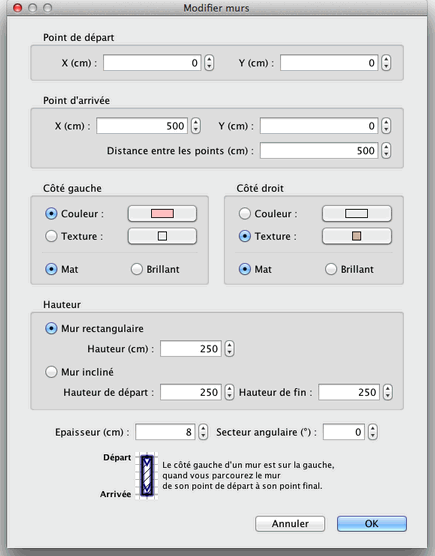
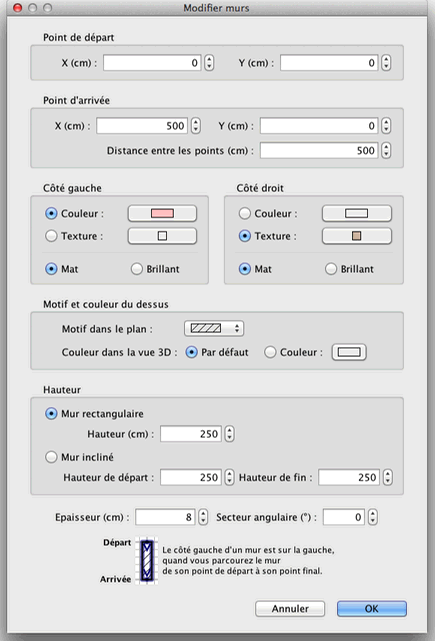
Updated help for version 4.0

diff --git a/trunk/SweetHome3D/src/com/eteks/sweethome3d/viewcontroller/resources/help/fr/editingPreferences.html b/trunk/SweetHome3D/src/com/eteks/sweethome3d/viewcontroller/resources/help/fr/editingPreferences.html
@@ -29,18 +29,22 @@
 	<td><p>Pour &eacute;diter les pr&eacute;f&eacute;rences de Sweet Home 3D, choisissez <i>Sweet Home 3D &gt; Pr&eacute;f&eacute;rences...</i> sous
 	    Mac OS X ou <i>Fichier &gt; Pr&eacute;f&eacute;rences...</i> sous les autres syst&egrave;mes d'exploitation.</p>
 	    <p align="center"><img src="images/editingPreferences.png"></p>
-	  <p>Dans le panneau des pr&eacute;f&eacute;rences, vous pouvez choisir la <i>Langue</i> utilis&eacute;e dans l'interface utilisateur
-	    de Sweet Home 3D et l'<i>Unit&eacute;</i> utilis&eacute;e
+	  <p>Dans le panneau des pr&eacute;f&eacute;rences,  la liste d&eacute;roulante <i>Langue</i> vous permet de choisir la langue utilis&eacute;e dans l'interface utilisateur
+	    de Sweet Home 3D et le bouton &agrave; sa droite d'importer des fichiers de langues avec une extensions SH3L.<br>
+	    La liste d&eacute;roulante <i>Unit&eacute;</i> vous permet de choisir l'unit&eacute; utilis&eacute;e
 	    pour dessiner les r&egrave;gles et la grille du plan du
-	    logement, et pour afficher les longueurs. <br>
-	    Le bouton &agrave; c&ocirc;t&eacute; de la liste d&eacute;roulante <i>Langue</i> vous permet aussi d'importer des fichiers de langues avec une extensions SH3L. </p>
+	    logement, ainsi que pour afficher les longueurs et les aires.	Pour le syst&egrave;me m&eacute;trique, vous pouvez choisir le <i>Millim&egrave;tre</i>, le <i>Centim&egrave;tre</i> ou le  <i>M&egrave;tre</i>, et le syst&egrave;me imp&eacute;rial propose les deux unit&eacute;s suivantes&nbsp;: l'unit&eacute; <i>Pied/Pouce/Fraction</i> 
+	    qui affiche une longueur en pieds et pouces suivie de la fraction d'un huiti&egrave;me de pouce la plus proche, comme dans 
+	    <b>20'10&#8539;&quot;</b>, et l'unit&eacute; <i>Pouce/D&eacute;cimales</i> qui affiche une longueur seulement en pouces suivie des d&eacute;cimales de pouce, comme dans <b>250.122&quot;</b>. Pour les aires, l'unit&eacute; <i>Pied/Pouce/Fraction</i> affiche toujours la valeur la plus proche en pieds carr&eacute;, tandis que l'unit&eacute; <i>Pouce/D&eacute;cimales</i> affiche des d&eacute;cimales 
+	    si besoin.</p>
 	    <p> Les boutons radio <i>Dossiers de cat&eacute;gorie </i>et <i>Liste 
           avec recherche </i>permettent de choisir le mode d'affichage du catalogue 
-          de meubles dans chaque <a href="ui.html">fen&ecirc;tre Sweet Home 3D</a>.<br>
-          La bo&icirc;te &agrave; cocher <i>Fl&egrave;ches de navigation 3D</i> 
-          permet d'afficher ou non les boutons en forme de fl&egrave;ches d'aide 
-          &agrave; la <a href="editing3DView.html">navigation dans la vue 3D</a>.</p>
-        <p> La bo&icirc;te &agrave; cocher <i>Magn&eacute;tisme</i> active ou 
+          de meubles dans chaque <a href="ui.html">fen&ecirc;tre Sweet Home 3D</a>.        </p>
+	    <p>	      La bo&icirc;te &agrave; cocher <i>Fl&egrave;ches de navigation 3D</i> permet d'afficher ou non les boutons en forme de fl&egrave;ches d'aide 
+          &agrave; la <a href="editing3DView.html">navigation dans la vue 3D</a>.<br>
+          Quand elle est activ&eacute;e, l'option <i>Vue a&eacute;rienne centr&eacute;e sur la s&eacute;lection</i> centrera la vue a&eacute;rienne 3D sur les &eacute;l&eacute;ments s&eacute;lectionn&eacute;s dans le plan 2D. Si aucun &eacute;l&eacute;ment n'est s&eacute;lectionn&eacute; ou si cette option est d&eacute;sactiv&eacute;e, 
+          la vue a&eacute;rienne sera centr&eacute;e sur le mileu du logement, qui peut changer en fonction de son contenu.</p>
+	    <p>La bo&icirc;te &agrave; cocher <i>Magn&eacute;tisme</i> active ou 
           d&eacute;sactive le magn&eacute;tisme utilis&eacute; dans le plan du 
           logement au cours du positionnement des meubles, et du dessin des murs, des pi&egrave;ces et des cotes.<br>
           La bo&icirc;te &agrave; cocher <i>R&egrave;gles</i> permet de rendre 
@@ -56,11 +60,14 @@
           remplies dans le plan avec la couleur ou de la texture que vous avez 
           choisies pour leur plancher, ou en gris (en blanc &agrave; l'impression).<br>
           La liste d&eacute;roulante <i>Motif des murs dans le plan</i> permet 
-          de choisir le motif de remplissage des murs dans le plan.</p>
-	  <p>La valeur de l'<i>Epaisseur des nouveaux murs</i> d&eacute;termine l'&eacute;paisseur des murs qui seront cr&eacute;&eacute;s
+          de choisir le motif de remplissage des murs dans le plan.<br>
+          La valeur de l'<i>Epaisseur des nouveaux murs</i> d&eacute;termine l'&eacute;paisseur des murs qui seront cr&eacute;&eacute;s
 	        une fois que le panneau des pr&eacute;f&eacute;rences sera ferm&eacute;.<br>
           La valeur de la <i>Hauteur des nouveaux murs</i> d&eacute;termine la hauteur des futurs murs.<br>
-	        La valeur de l'<i>Epaisseur des nouveaux planchers</i> d&eacute;termine l'&eacute;paisseur des planchers des futurs niveaux.	  </p>
+          La valeur de l'<i>Epaisseur des nouveaux planchers</i> d&eacute;termine l'&eacute;paisseur des planchers des futurs niveaux.</p>
+<p>Si elle est s&eacute;lectionn&eacute;e, l'option <i>V&eacute;rifier les mises &agrave; jour au lancement du programme</i> v&eacute;rifiera si des mises &agrave; jours de Sweet Home 3D sont disponibles ou non &agrave; chaque fois que le programme est  lanc&eacute;, 
+  et affichera des informations sur celles-ci dans une bo&icirc;te de dialogue. Cette option v&eacute;rifie aussi la disponibilit&eacute; de mises &agrave; jours pour les biblioth&egrave;ques de meubles (fichiers SH3F), les biblioth&egrave;ques de textures (fichiers SH3T), les fichiers de langues (fichiers SH3L) et les plug-ins 
+  (fichiers SH3P) que vous avez install&eacute;s, en fonction de leur configuration. </p>	  
 	  <p>La valeur du champ associ&eacute; &agrave; la bo&icirc;te &agrave; 
           cocher <i>Enregistrer les donn&eacute;es de r&eacute;cup&eacute;ration</i> 
           d&eacute;termine le d&eacute;lai en minutes qui s'&eacute;coule entre 
@@ -82,7 +89,7 @@
           <td><img src="../images/coloredRendering.png" width="332" height="296"></td>
         </tr>
         <tr>
-          <td align="center" valign="top">Rendu du plan par d&eacute;faut avec les ic&ocirc;nes du catalogue,<br>
+          <td align="center" valign="top">Rendu du plan avec les ic&ocirc;nes du catalogue,<br>
       les planchers monochromes et les murs hachur&eacute;s</td>
           <td align="center" valign="top">Rendu du plan avec les meubles vus de dessus,<br>
       les planchers color&eacute;s, et les murs en noir</td>
@@ -140,6 +147,12 @@
               <td><p>Une fois qu'un mur est cr&eacute;&eacute;, vous pouvez <a href="editingWalls.html">changer</a> 
                   son &eacute;paisseur et sa hauteur, quelque soit les valeurs 
                   choisies dans le panneau des pr&eacute;f&eacute;rences.</p></td>
+            </tr>
+            <tr valign="top"> 
+              <td width="16"><p>&#149;</p></td>
+              <td><p>Les  informations sur les mises &agrave; jour ne peuvent &ecirc;tre obtenues que si votre ordinateur a acc&egrave;s &agrave; Internet. 
+              En cas de doute, cliquez sur le bouton <i>V&eacute;rifier maintenant</i> pour afficher les mises &agrave; jour disponibles, 
+              ou un message sp&eacute;cifiant qu'aucune mise &agrave; jour n'est disponible, ou un message d'erreur stipulant que les mises &agrave; jour n'ont pu &ecirc;tre lues.</p></td>
             </tr>
           </table></td>
 	</tr>

diff --git a/trunk/SweetHome3D/src/com/eteks/sweethome3d/viewcontroller/resources/help/en/editingPreferences.html b/trunk/SweetHome3D/src/com/eteks/sweethome3d/viewcontroller/resources/help/en/editingPreferences.html
@@ -29,15 +29,25 @@
 	<td><p>To edit Sweet Home 3D preferences, choose <i>Sweet Home 3D &gt; Preferences...</i> under Mac OS X or <i>File &gt; Preferences...</i> under
 	    other systems.</p>
 	    <p align="center"><img src="images/editingPreferences.png"></p>
-	  <p>In the preferences pane, you can choose the <i>Language</i> used in Sweet Home 3D user interface and the <i>Unit</i> used
-	    to draw  the rulers and grid of the home plan, and to display lengths and areas.<br>
-	    The button beside the <i>Language</i> drop down list lets you also import some additional languages library files with a SH3L extension. </p>
-	    <p> The <i>Category folders</i> and the <i>Searchable list</i> radio buttons 
+	  <p>In the preferences pane, the <i>Language</i> drop down list lets you choose the language used in the user interface of Sweet Home 3D,  
+	  	and the button at its right lets you import some additional languages library files with a SH3L extension. <br>
+	    The <i>Unit</i> drop down list lets you choose the unit used to draw  the rulers and grid of the home plan, 
+	    and to display lengths and areas. <i>Millimeter</i>, <i>Centimeter</i> and <i>Meter</i> units are available 
+	    for the metric system, and two units are proposed for  the imperial system&nbsp;: the <i>Foot/Inch/Fraction</i> 
+	    unit which displays a length in feet and inches followed by the closest eighth inch fraction, like in 
+	    <b>20'10&#8539;&quot;</b>, and the <i>Inch/Decimals</i> unit  which displays lengths only in inches followed 
+	    by decimals of an inch, like in <b>250.122&quot;</b>. For areas, the <i>Foot/Inch/Fraction</i>  always 
+	    displays the closest value in square feet, whereas the <i>Inch/Decimals</i> unit displays some decimals 
+	    when necessary.</p>
+	  <p> The <i>Category folders</i> and the <i>Searchable list</i> radio buttons 
           let you choose how the furniture catalog should be displayed in each 
-          <a href="ui.html">Sweet Home 3D window</a>.<br>
-          The <i>3D navigation arrows</i> check box allows to display arrow buttons 
+        <a href="ui.html">Sweet Home 3D window</a>.</p>
+	  <p>The <i>3D navigation arrows</i> check box allows to display arrow buttons 
           that will help you to <a href="editing3DView.html">navigate in the 3D 
-        view</a>.</p>
+        view</a>.<br>
+        When enabled, the  <i>Aerial view centered on selection</i> option will center the 3D aerial view 
+        on the selected items in the 2D plan. If no item is selected or if this option is disabled, 
+        the aerial view will be centered on the center of the home, that may vary according to the items it contains. </p>
         <p> The <i>Magnetism</i> check box enables or disables the magnetism used 
           in the home plan during <a href="drawingWalls.html">walls drawing</a> 
           and <a href="editingFurniture.html">furniture placing</a>.<br>
@@ -51,13 +61,18 @@
           let you choose whether rooms should be drawn in plan filled with the 
           color or texture you chose for their floor, or with a grey color (printed 
           as white).<br>
-          The <i>Wall pattern in plan</i> combo box lets you choose the pattern 
-          used to fill walls in plan.</p>
-        <p>	      The <i>New walls thickness</i> value sets the thickness of all the walls that will be created once the preferences
+          The <i>New walls pattern in plan</i> drop down list lets you choose the pattern 
+        in the plan used to fill the walls  that will be created once the preferences
 	        pane will be closed.<br>
+          The <i>New walls thickness</i> value sets the thickness of the new walls.<br>
           The <i>New  walls height</i> value 
 	        sets the height of the new walls and of the new levels. <br>
-        The <i>New floors thickness</i> sets the thickness of the floors of new levels. </p>	  
+        The <i>New levels floor thickness</i> sets the thickness of the floors of new levels. </p>
+        <p>When selected, the  <i>Check updates at program launch</i> option will check whether 
+        some updates of Sweet Home 3D are available or not each time the program is launched, 
+        and will display them in a dialog box. This option checks also the availability of some updates for the furniture libraries 
+        (SH3F files),  textures libraries (SH3T files),  language libraries (SH3L files) and plug-ins 
+        (SH3P files) that you installed, depending on how they are configured. </p>	  
         <p>The value of the field associated to the <i>Save home data for recovery</i> 
           check box sets the delay in minutes between two save operations of the 
           opened homes. These homes are automatically saved in private files, 
@@ -75,7 +90,7 @@
           <td><img src="../images/coloredRendering.png" width="332" height="296"></td>
         </tr>
         <tr>
-          <td align="center" valign="top">Default plan rendering with catalog icons,<br>
+          <td align="center" valign="top">Plan rendering with catalog icons,<br>
             monochrome floors and walls filled with a hatch pattern</td>
           <td align="center" valign="top">Plan rendering with top view furniture icons,<br>
             floor colors, and walls filled with black color</td>
@@ -121,11 +136,17 @@
               <td><p>Magnetism set in preferences pane can be temporarily toggled 
               in the home plan, by pressing the <i>Alt</i> key under Windows, the <i>cmd</i> key under Mac OS X or the <i>Shift</i> +<i> Alt</i> keys under Linux.</p></td>
             </tr>
-            <tr valign="top"> 
+            <tr valign="top">
               <td width="16"><p>&#149;</p></td>
               <td><p>Once a wall is created, you may <a href="editingWalls.html">change</a> 
                   its thickness and its height whatever the values you set in 
                   preferences pane.</p></td>
+            </tr>
+            <tr valign="top"> 
+              <td width="16"><p>&#149;</p></td>
+              <td><p>Updates information can be retrieved only if your computer has access to the Internet. 
+              In case of doubts, click on the <i>Check now</i> button to display available updates, 
+              or a message stating that no update is available, or an error message stating udaptes couldn't be read.</p></td>
             </tr>
           </table>
 	</td>

diff --git a/trunk/SweetHome3D/src/com/eteks/sweethome3d/viewcontroller/resources/help/fr/creatingPhotos.html b/trunk/SweetHome3D/src/com/eteks/sweethome3d/viewcontroller/resources/help/fr/creatingPhotos.html
@@ -110,8 +110,8 @@
           par le panneau de la <a href="editingCompass.html">boussole</a>. La 
           luminosit&eacute; globale de l'image d&eacute;pend aussi du niveau de 
           l'intensit&eacute; lumineuse choisie dans le panneau de <a href="editing3DView.html">modification 
-          de la vue 3D</a>.</p>
-        <p>Pour terminer, le panneau <i>Cr&eacute;er une photo</i> vous permet 
+          de la vue 3D</a>.<br>
+          Pour terminer, le panneau <i>Cr&eacute;er une photo</i> vous permet 
           de s&eacute;lectionner l'objectif &agrave; utiliser parmi les 4 suivants.</p>
         <table border="0" align="center" cellpadding="0" cellspacing="5">
           <tr align="center"> 
@@ -134,7 +134,8 @@
             <td align="center" valign="top">Objectif <i>Sph&eacute;rique</i></td>
           </tr>
         </table>
-       
+       	<p>Si vous voulez calculer un ensemble de photos en une seule t&acirc;che, enregistrez les points de vue auxquels vous vous int&eacute;ressez avec le menu <i>Vue 3D view &gt; Enregistrer le point de vue...</i> puis choisissez le menu <i>Vue 3D &gt; Cr&eacute;er des photos aux points de vue...</i>. Ce menu affichera une bo&icirc;te de dialogue vous permettant de choisir la taille, la qualit&eacute; et le fomat de fichier des photos, avant de les calculer et les enregistrer dans le dossier de votre choix.  Aux deux meilleurs niveaux de qualit&eacute;, la date/heure et l'objectif utilis&eacute;s &agrave; un point de vue donn&eacute; seront les valeurs que vous avez saisies pr&eacute;c&eacute;demment dans le panneau de cr&eacute;ation de photo, au moment de l'enregistrement de ce point de vue.</p>
+        <p align="center"><img src="images/creatingPhotosAtPointsOfView.png" alt="Create photos at points of view"></p>
         </td>
 	</tr>
 </table>
@@ -209,11 +210,11 @@
             </tr>
             <tr valign="top"> 
               <td><p>&#149;</p></td>
-              <td> <p>La bo&icirc;te de dialogue <i>Cr&eacute;er une photo</i> 
-                  n'est pas modale. Ceci implique qu'elle ne bloque pas les saisies 
+              <td> <p>Les bo&icirc;tes de dialogue <i>Cr&eacute;er une photo</i> 
+                  et <i>Cr&eacute;er des photos aux points de vue</i> ne sont pas modales. Ceci implique qu'ellent ne bloquent pas les saisies 
                   dans d'autres fen&ecirc;tres, ce qui vous permet de modifier 
                   votre logement ou votre point de vue dans la fen&ecirc;tre principale, 
-                  quand cette bo&icirc;te de dialogue est ouverte. </p></td>
+                  quand l'une de ces bo&icirc;tes de dialogue est ouverte. </p></td>
             </tr>
             <tr valign="top"> 
               <td width="16"><p>&#149;</p></td>

diff --git a/trunk/SweetHome3D/src/com/eteks/sweethome3d/viewcontroller/resources/help/en/creatingPhotos.html b/trunk/SweetHome3D/src/com/eteks/sweethome3d/viewcontroller/resources/help/en/creatingPhotos.html
@@ -97,8 +97,8 @@
           the latter parameters being managed by the <a href="editingCompass.html">compass</a> 
           pane. The global brightness of the image depends also on the level of 
           the light brightness set in the <a href="editing3DView.html">3D view 
-          modification</a> pane.</p>
-        <p>Finally, the <i>Create photo</i> pane lets you choose also among the 
+          modification</a> pane.<br>
+          Finally, the <i>Create photo</i> pane lets you choose also among the 
           4 different following types of lens.</p>
         <table border="0" align="center" cellpadding="0" cellspacing="5">
           <tr align="center"> 
@@ -121,8 +121,9 @@
             <td align="center" valign="top"><i>Spherical</i> lens</td>
           </tr>
         </table>
-       
-        </td>
+        <p>If you want to  compute a group of photos in the same batch, store the points of view you're interested in with the  <i>3D view &gt; Store point 
+        of view...</i> menu item then select the <i>3D view &gt; Create photos at point of view...</i> menu item. It will display a dialog box that will let you choose the size, the image quality and the file format of the computed images, before computing and saving them in the folder of your choice.  At the two best quality levels, the date/time and lens used for a given rendered point of view will be the values you previously entered in the <i>Create photo</i> pane, at the moment you stored that point of view.</p>
+        <p align="center"><img src="images/creatingPhotosAtPointsOfView.png" alt="Create photos at points of view"></p></td>
 	</tr>
 </table>
 <div id="taskbox">
@@ -187,10 +188,10 @@
             </tr>
             <tr valign="top"> 
               <td><p>&#149;</p></td>
-              <td> <p>The <i>Create photo</i> dialog box isn't modal. This means 
+              <td> <p>The <i>Create photo</i> and <i>Create photos at point of view</i> dialog boxes aren't modal. This means 
                   that it doesn't block the input in other windows and lets you 
-                  modify your home or your point of view in the main window, while 
-                  this dialog box is opened. </p></td>
+                  modify your home or your point of view in the main window, while one of 
+                  these dialog boxes is opened. </p></td>
             </tr>
             <tr valign="top"> 
               <td width="16"><p>&#149;</p></td>

diff --git a/trunk/SweetHome3D/src/com/eteks/sweethome3d/viewcontroller/resources/help/en/editingWalls.html b/trunk/SweetHome3D/src/com/eteks/sweethome3d/viewcontroller/resources/help/en/editingWalls.html
@@ -86,7 +86,7 @@
         <p align="center"><img src="images/editingWalls.png"></p>
         <p>In the wall pane, you may change&nbsp;the coordinates of its start 
           and end points, the colors, the textures and the shininess of its left 
-          and right sides, its thickness, its height and its arc extent if it's 
+          and right sides, the pattern used to fill it in the plan, the color used to paint its top in the 3D view, its thickness, its height and its arc extent if it's 
           a round wall.<br>
           If it's a sloping wall of a garret, choose different heights at its start and  end points, and ensure
           yourself that the <i>Sloping wall</i> radio button is selected.<br>
@@ -105,7 +105,7 @@
               <p>&#149;</p>
             </td>
             <td>
-              <p>If you want to modify the colors, the texture, the thickness or the height of a set of walls, select these
+              <p>If you want to modify the colors, the textures, the thickness or the height of a set of walls, select these
                 walls and choose <i>Plan &gt; Modify walls...</i>.
                 The values of the attributes that are different from one wall to another in the selected walls set,
                 will appear  blank  in the walls pane. If   among these walls, a wall isn't correctly oriented, select
@@ -116,9 +116,12 @@
               <p>&#149;</p>
             </td>
             <td>
-              <p>If you want to set different colors on the side of a wall shared by adjacent rooms,   divide
+              <p>If you want to set different colors or textures on the side of a wall shared by adjacent rooms, divide
               it in multiple segments at its <a href="drawingWalls.html">creation</a>. Afterwards, you may also divide a
-              wall in two walls by choosing <i>Plan &gt; Split wall</i>.</td>
+              wall in two walls by choosing <i>Plan &gt; Split wall</i>. If you want to change the color of all the wall 
+              sides around a room, <a href="drawingRooms.html">draw that room</a> if necessary, and select the color of 
+              your choice in the <i>Wall sides around room</i> section of the <a href="editingRooms.html">modification</a> 
+              pane of that room.</td>
           </tr>
           <tr valign="top">
             <td>

diff --git a/trunk/SweetHome3D/src/com/eteks/sweethome3d/viewcontroller/resources/help/fr/editing3DView.html b/trunk/SweetHome3D/src/com/eteks/sweethome3d/viewcontroller/resources/help/fr/editing3DView.html
@@ -194,6 +194,12 @@
 	    </tr>
 	  <tr valign="top">
 	    <td><p>&#149;</p></td>
+	    <td><p>Dans le mode <i>Vue a&eacute;rienne</i>, l'observateur tourne autour du centre du logement dans la vue 3D, et ce centre est automatiquement mis	&agrave; jour chaque fois qu'un objet est d&eacute;plac&eacute; ou redimensionn&eacute;. Ce comportement vous assure de toujours voir votre logement enti&egrave;rement sans risque de vous perdre dans la vue 3D. Si vous voulez choisir un point de vue ind&eacute;pendant de ce mode centr&eacute;, vous pouvez activer l'option <i>Vue a&eacute;rienne centr&eacute;e sur la selection</i> dans le panneau des <a href="editingPreferences.html">pr&eacute;f&eacute;rences</a> pour centrer la vue a&eacute;rienne 3D 
+	    	sur les &eacute;l&eacute;ments s&eacute;lectionn&eacute;s dans le plan, ou  utiliser le mode <i>Visiteur virtuel</i> pour choisir n'importe quel point de vue. 
+	    	Si vous voulez voir des pi&egrave;ces cach&eacute;es par des murs, vous pouvez aussi modifier la transparence des murs dans le panneau de modification de la vue 3D.</p></td>
+	    </tr>
+	  <tr valign="top">
+	    <td><p>&#149;</p></td>
 	    <td><p>L'option <i>Ajuster la hauteur des yeux en fonction du niveau s&eacute;lectionn&eacute;</i> est s&eacute;lectionn&eacute;e par d&eacute;faut et disponible aussit&ocirc;t que le logement &eacute;dit&eacute; compte plus d'un <a href="addingLevels.html">niveau</a>. D&eacute;s&eacute;lectionnez-la  si vous pr&eacute;f&eacute;rez conserver la m&ecirc;me &eacute;l&eacute;vation quelque soit le niveau s&eacute;lectionn&eacute; (propablement pour un point de vue ext&eacute;rieur).</p></td>
 	    </tr>
 	  <tr valign="top">

diff --git a/trunk/SweetHome3D/src/com/eteks/sweethome3d/viewcontroller/resources/help/en/editingFurniture.html b/trunk/SweetHome3D/src/com/eteks/sweethome3d/viewcontroller/resources/help/en/editingFurniture.html
@@ -113,11 +113,20 @@
           the ordinate (Y) of its center, the elevation of its bottom from the 
           floor, its width, its depth, its height, its color or its texture, its 
           shininess, its visibility, its rotation angle, whether its name should 
-          be displayed in plan or not and whether its 3D model shape should be 
+          be displayed in plan or not, and whether its 3D model shape should be 
           mirrored.<br>
 	    If you make a piece invisible, it won't be drawn in the home plan
 	    and the 3D view, but it will
-	    still appear in the furniture list to let you make it visible again later.</p></td>
+	    still appear in the furniture list to let you make it visible again later.<br>
+	    When one piece is edited
+	    (or if the selected pieces are all the same), you may also click on the <i>Modify</i> button 
+	    shown beside <i>Materials</i> option, to  replace each color or texture of the piece by the 
+	    one of your choice. </p>
+	    <p align="center"><img src="images/editingMaterials.png" alt="Modify furniture"></p>
+	    <p>The <i>Furniture materials</i> pane displays the list of materials you can edit, and a 3D preview 
+	    of the color and texture changes you made, because materials may not always have  some clear or translated names 
+	    (like <i>bone2</i> instead of <i>mattress</i> or <i>flyellow</i> instead of <i>frame</i> in the previous figure). 
+      You can also  rotate the object in the 3D preview with the mouse if necessary.</p></td>
 	</tr>
 </table>
 <div id="taskbox">

diff --git a/trunk/SweetHome3D/src/com/eteks/sweethome3d/viewcontroller/resources/help/fr/editingFurniture.html b/trunk/SweetHome3D/src/com/eteks/sweethome3d/viewcontroller/resources/help/fr/editingFurniture.html
@@ -124,7 +124,13 @@ Les meubles modifi&eacute;s avec la souris sont dessin&eacute;s simultan&eacute;
           ou son miroir. <br>
 	     Si vous rendez un meuble invisible, il ne sera pas dessin&eacute; dans le plan du logement et dans
 	     la vue 3D, mais il continuera d'appara&icirc;tre dans
-	    la liste des meubles pour vous permettre de le rendre &agrave; nouveau visible ult&eacute;rieurement.</p></td>
+	    la liste des meubles pour vous permettre de le rendre &agrave; nouveau visible ult&eacute;rieurement.
+	    <br>
+	    Quand un meuble est &eacute;dit&eacute;
+	    (ou si les meubles s&eacute;lectionn&eacute;s sont tous les m&ecirc;mes), vous pouvez aussi cliquer sur le bouton <i>Modifier</i> en regard de l'option <i>Mat&eacute;riaux</i>, pour remplacer chaque couleur ou chaque texture du meuble par celle de votre choix. </p>
+	    <p align="center"><img src="images/editingMaterials.png" alt="Modify furniture"></p>
+	    <p>Le panneau <i>Mat&eacute;riaux du mobilier</i> affiche la liste des mat&eacute;riaux que vous pouvez modifier, ainsi qu'un aper&ccedil;u 3D des modifications de couleur et de texture en cours, les mat&eacute;riaux n'ayant pas toujours des noms clairs ou en fran&ccedil;ais (comme <i>bone2</i> &agrave; la place de <i>matelas</i> ou <i>flyellow</i>&agrave; la place de <i>cadre de lit </i> dans la figure pr&eacute;c&eacute;dente). 
+      Si besoin, vous pouvez aussi faire tourner l'objet dans l'aper&ccedil;u 3D &agrave; l'aide de  la souris.</p></td>
 	</tr>
 </table>
 <div id="taskbox">

diff --git a/trunk/SweetHome3D/src/com/eteks/sweethome3d/viewcontroller/resources/help/en/editing3DView.html b/trunk/SweetHome3D/src/com/eteks/sweethome3d/viewcontroller/resources/help/en/editing3DView.html
@@ -178,6 +178,15 @@
 	    </tr>
 	  <tr valign="top">
 	    <td><p>&#149;</p></td>
+	    <td><p>In <i>Aerial view</i> mode, the observer  turns around the center of the home in the 3D view and this center is automatically 
+	    	updated each time the objects are moved or resized. This behavior ensures you always see your home entirely with no way to get 
+	    	lost in the 3D view. If you want to use a point of view that won't depend on this centered mode, you may enable the 
+	    	<i>Aerial view centered on selection</i> option in the <a href="editingPreferences.html">preferences</a> pane to center the 3D 
+	    	aerial view on the selected items in the 2D plan, or  use the <i>Virtual visit</i> mode which lets you choose any point of view. 
+	    	If you want to see some rooms hidden by walls, you may also set the walls transparency in the modification pane of the 3D view.</p></td>
+	    </tr>
+	  <tr valign="top">
+	    <td><p>&#149;</p></td>
 	    <td><p>The  <i>Adjust eyes elevation according to the selected level</i>  option is selected by default and available only if the edited home has more than one <a href="addingLevels.html">level</a>. Unselect it if you want to keep the same elevation whatever level is selected (propably for an exterior point of view).</p></td>
 	    </tr>
 	  <tr valign="top">

diff --git a/trunk/SweetHome3D/src/com/eteks/sweethome3d/viewcontroller/resources/help/fr/editingRooms.html b/trunk/SweetHome3D/src/com/eteks/sweethome3d/viewcontroller/resources/help/fr/editingRooms.html
@@ -89,7 +89,15 @@
           Vous pouvez aussi choisir si le plancher et le plafond de la pi&egrave;ce 
           s&eacute;lectionn&eacute;e doivent &ecirc;tre affich&eacute;s dans la 
           vue 3D, et si oui, avec quelle couleur, quelle texture et &agrave; quelle 
-        brillance.</p>
+        brillance.<br>
+        Quand la pi&egrave;ce s&eacute;lectionn&eacute;e touche ou est tr&egrave;s proche d'un ou plusieurs murs, le panneau de la pi&egrave;ce affiche aussi une section <i>Murs autour de la pi&egrave;ce </i>qui vous permet de choisir la couleur ou la texture du c&ocirc;t&eacute; des murs qui se situent le long de la pi&egrave;ce ou sont dans la pi&egrave;ce. Si besoin, cette section propose une option <i>Recalculer les murs</i> qui si elle est s&eacute;lectionn&eacute;e, divisera automatiquement les murs qui s'&eacute;tendent le long des autres pi&egrave;ces environnantes.</p>
+        <table align="center"><tr>
+          <td><img src="../images/notRecomputedWallsAroundRoom.png" border="1" ></td>
+		  <td>&nbsp;</td>
+		  <td><img src="../images/recomputedWallsAroundRoom.png" border="1"></td></tr>
+	      <tr><td align="center"><i>Not recomputed walls</i></td>
+	      <td></td>
+	      <td align="center"><i>Recomputed walls</i></td></tr></table></td>
       </td>
   </tr>
 </table>

diff --git a/trunk/SweetHome3D/src/com/eteks/sweethome3d/viewcontroller/resources/help/fr/editingWalls.html b/trunk/SweetHome3D/src/com/eteks/sweethome3d/viewcontroller/resources/help/fr/editingWalls.html
@@ -121,11 +121,12 @@
               <p>&#149;</p>
             </td>
             <td>
-              <p>Si vous voulez positionner des couleurs diff&eacute;rentes sur le c&ocirc;t&eacute; d'un mur partag&eacute; par
+              <p>Si vous voulez choisir des couleurs ou des textures diff&eacute;rentes sur le c&ocirc;t&eacute; d'un mur partag&eacute; par
                 des pi&egrave;ces adjacentes,
                 divisez le en plusieurs segments
                 &agrave; sa <a href="drawingWalls.html">cr&eacute;ation</a>. Apr&egrave;s sa cr&eacute;ation, vous pouvez aussi le diviser
-                en deux murs en choisissant l'&eacute;l&eacute;ment de menu <i>Plan &gt; Diviser le mur</i>.</td>
+                en deux murs en choisissant l'&eacute;l&eacute;ment de menu <i>Plan &gt; Diviser le mur</i>. Si vous voulez modifier la couleur de tous les c&ocirc;t&eacute;s des murs situ&eacute;s autour d'une pi&egrave;ce, <a href="drawingRooms.html">dessinez cette pi&egrave;ce</a> si besoin, et s&eacute;lectionnez la couleur de votre choix dans la section <i>Murs autour de la pi&egrave;ce </i>du panneau de <a href="editingRooms.html">modification</a> 
+              de cette pi&egrave;ce.</p></td>
           </tr>
           <tr valign="top">
             <td>

diff --git a/trunk/SweetHome3D/src/com/eteks/sweethome3d/viewcontroller/resources/help/en/editingRooms.html b/trunk/SweetHome3D/src/com/eteks/sweethome3d/viewcontroller/resources/help/en/editingRooms.html
@@ -84,8 +84,18 @@
           plan or not.<br>
           You may also choose whether the floor and the ceiling of the selected 
           room should be displayed in the 3D view, and set their color, their 
-          texture and their shininess.</p>
-      </td>
+          texture and their shininess.<br>
+          When  the selected room touches or is very close to one or more walls, the room pane displays 
+          also a <i>Wall sides around room</i> section that will let you choose the color or the texture 
+          of the side of the walls lying along the room or in the room. If necessary, this section provides a 
+          <i>Recompute walls</i> option that if selected, will automatically split the walls spreading along the other nearby rooms.</p>
+        <table align="center"><tr>
+          <td><img src="../images/notRecomputedWallsAroundRoom.png" border="1" ></td>
+		  <td>&nbsp;</td>
+		  <td><img src="../images/recomputedWallsAroundRoom.png" border="1"></td></tr>
+	      <tr><td align="center"><i>Not recomputed walls</i></td>
+	      <td></td>
+	      <td align="center"><i>Recomputed walls</i></td></tr></table></td>
   </tr>
 </table>
 <div id="taskbox">
